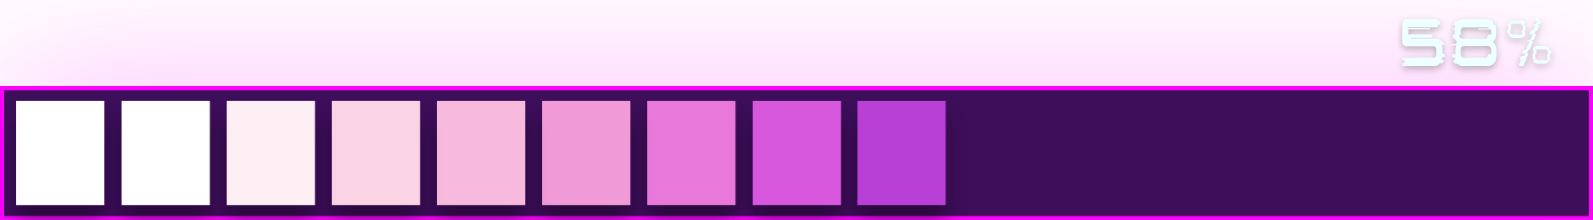
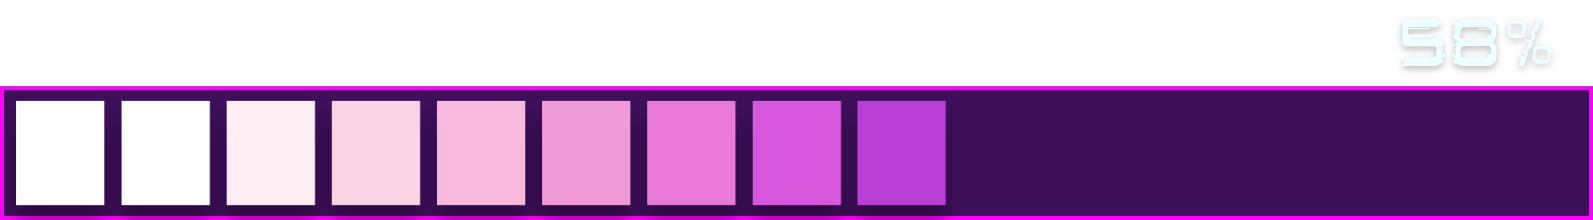
fixed progress bar and type labed postion.

Changed region(s): [[0.0, 0.2727, 1.0, 0.4091], [0.0, 0.9545, 1.0, 1.0]]

diff --git a/src/main/java/com/cysaaa/gui/screens/GameplayPanel.java b/src/main/java/com/cysaaa/gui/screens/GameplayPanel.java
@@ -193,8 +193,8 @@ public class GameplayPanel extends BackgroundPanel {
     private void buildUIComponents() {
         typeLabel = new JLabel("", SwingConstants.CENTER);
         typeLabel.setForeground(Color.WHITE);
-        typeLabel.setFont(new Font("SansSerif", Font.BOLD, 22));
-        percentLayout.addPixel(this, typeLabel, 173, 97, 634, 86);
+        typeLabel.setFont(new Font("SansSerif", Font.BOLD, 40));
+        percentLayout.addPixel(this, typeLabel, 365, 83, 584, 55);
 
         questionTextLabel = new JLabel();
         questionTextLabel.setForeground(Color.WHITE);
